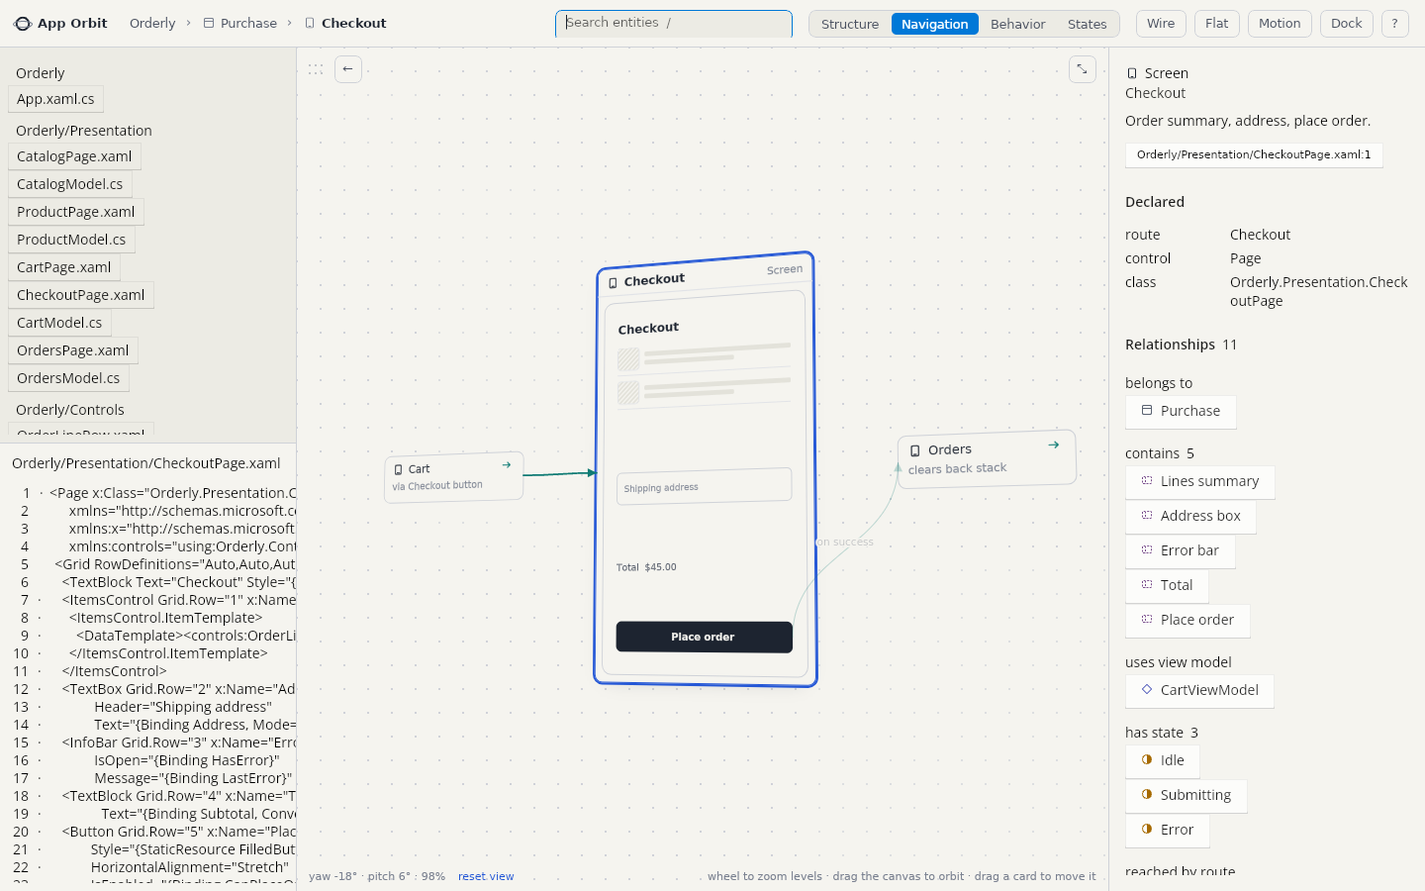
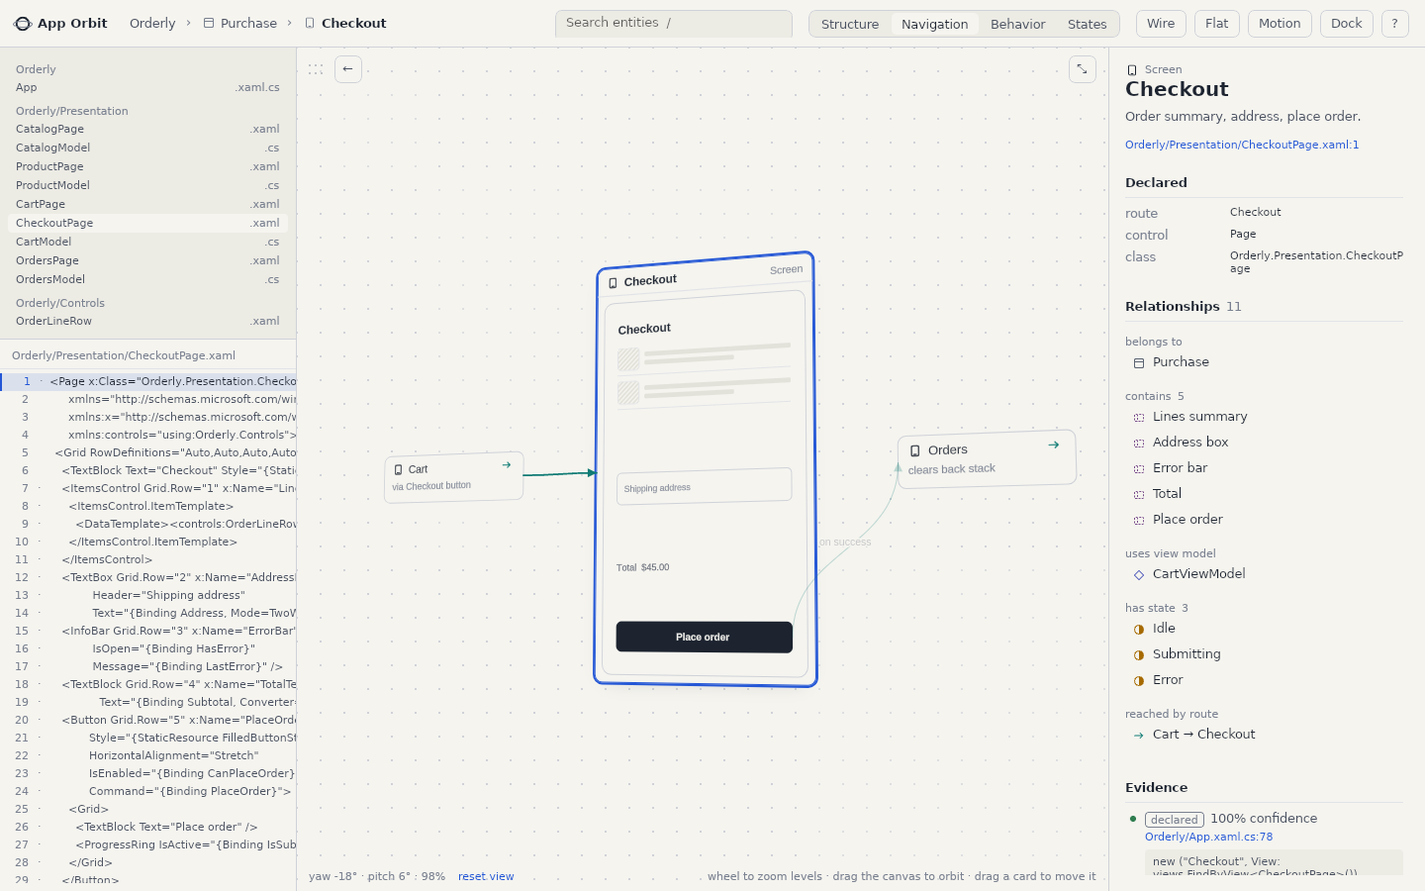
fix(app-orbit): shell styling, viewer focus host and a stable window size
Resources resolve through the application dictionary and the active theme
entry; the lens tabs and toggles are buttons whose pressed look the page sets,
with the stock templates' hover and pressed keys overridden at app level. The
canvas sits in a focusable host so keys reach the viewer. The launch size is
re-asked until the XAML root reports it, which makes headless captures
deterministic on X11. The journey adds pointer hit-test checks (56 pass).

Claude-Session: https://claude.ai/code/session_017pPP6jnh4C2bUHUgnHGYqQ

diff --git a/App/AppOrbit/ShellPage.xaml b/App/AppOrbit/ShellPage.xaml
@@ -31,7 +31,7 @@
       <StackPanel x:Name="Breadcrumb" Grid.Column="1" Orientation="Horizontal" Spacing="4" VerticalAlignment="Center" />
 
       <Grid Grid.Column="2" VerticalAlignment="Center">
-        <TextBox x:Name="SearchBox" Style="{StaticResource SearchBox}" PlaceholderText="Search entities  /" AutomationProperties.Name="Search entities" />
+        <TextBox x:Name="SearchBox" Style="{StaticResource SearchBox}" IsTabStop="True" TabIndex="5" PlaceholderText="Search entities  /" AutomationProperties.Name="Search entities" />
         <Popup x:Name="SearchPopup" IsLightDismissEnabled="False" VerticalOffset="32">
           <Border x:Name="SearchResultsBorder" Width="320" Background="{ThemeResource Paper}" BorderBrush="{ThemeResource Rule}" BorderThickness="1" CornerRadius="6" Padding="4" MaxHeight="320">
             <StackPanel x:Name="SearchResults" />
@@ -41,18 +41,18 @@
 
       <Border x:Name="LensTabs" Grid.Column="3" Background="{ThemeResource Paper2}" BorderBrush="{ThemeResource Rule}" BorderThickness="1" CornerRadius="7" Padding="2" Height="28" VerticalAlignment="Center">
         <StackPanel Orientation="Horizontal" Spacing="2">
-          <ToggleButton x:Name="LensStructure" Content="Structure" Style="{StaticResource LensTab}" Tag="structure" Click="OnLensTab" AutomationProperties.Name="Structure lens" />
-          <ToggleButton x:Name="LensNavigation" Content="Navigation" Style="{StaticResource LensTab}" Tag="navigation" Click="OnLensTab" AutomationProperties.Name="Navigation lens" />
-          <ToggleButton x:Name="LensBehavior" Content="Behavior" Style="{StaticResource LensTab}" Tag="behavior" Click="OnLensTab" AutomationProperties.Name="Behavior lens" />
-          <ToggleButton x:Name="LensStates" Content="States" Style="{StaticResource LensTab}" Tag="states" Click="OnLensTab" AutomationProperties.Name="States lens" />
+          <Button x:Name="LensStructure" Content="Structure" Style="{StaticResource LensTab}" Tag="structure" Click="OnLensTab" AutomationProperties.Name="Structure lens" />
+          <Button x:Name="LensNavigation" Content="Navigation" Style="{StaticResource LensTab}" Tag="navigation" Click="OnLensTab" AutomationProperties.Name="Navigation lens" />
+          <Button x:Name="LensBehavior" Content="Behavior" Style="{StaticResource LensTab}" Tag="behavior" Click="OnLensTab" AutomationProperties.Name="Behavior lens" />
+          <Button x:Name="LensStates" Content="States" Style="{StaticResource LensTab}" Tag="states" Click="OnLensTab" AutomationProperties.Name="States lens" />
         </StackPanel>
       </Border>
 
       <StackPanel Grid.Column="4" Orientation="Horizontal" Spacing="8" VerticalAlignment="Center">
-        <ToggleButton x:Name="FidelityButton" Content="Wire" Style="{StaticResource ShellToggle}" Click="OnToggleFidelity" AutomationProperties.Name="Wireframe or UI previews (W)" />
-        <ToggleButton x:Name="ViewButton" Content="Flat" Style="{StaticResource ShellToggle}" Click="OnToggleView" AutomationProperties.Name="Flat view (F)" />
-        <ToggleButton x:Name="MotionButton" Content="Motion" Style="{StaticResource ShellToggle}" Click="OnToggleMotion" AutomationProperties.Name="Reduce motion" />
-        <ToggleButton x:Name="ModeButton" Content="Dock" Style="{StaticResource ShellToggle}" Click="OnToggleMode" AutomationProperties.Name="Dock the viewer (D)" />
+        <Button x:Name="FidelityButton" Content="Wire" Style="{StaticResource ShellButton}" Click="OnToggleFidelity" AutomationProperties.Name="Wireframe or UI previews (W)" />
+        <Button x:Name="ViewButton" Content="Flat" Style="{StaticResource ShellButton}" Click="OnToggleView" AutomationProperties.Name="Flat view (F)" />
+        <Button x:Name="MotionButton" Content="Motion" Style="{StaticResource ShellButton}" Click="OnToggleMotion" AutomationProperties.Name="Reduce motion" />
+        <Button x:Name="ModeButton" Content="Dock" Style="{StaticResource ShellButton}" Click="OnToggleMode" AutomationProperties.Name="Dock the viewer (D)" />
         <Button x:Name="HelpButton" Content="?" Style="{StaticResource IconButton}" Click="OnToggleHelp" AutomationProperties.Name="Keyboard shortcuts" />
       </StackPanel>
     </Grid>
@@ -91,7 +91,9 @@
         <Border x:Name="DockGhost" BorderBrush="{ThemeResource Ink3}" BorderThickness="1" CornerRadius="8" Visibility="Collapsed" IsHitTestVisible="False" />
 
         <Grid x:Name="Viewer" Background="{ThemeResource Paper}" AutomationProperties.Name="Orbital viewer">
-          <scene:SceneCanvas x:Name="Stage" />
+          <ContentControl x:Name="StageHost" IsTabStop="True" UseSystemFocusVisuals="False" HorizontalContentAlignment="Stretch" VerticalContentAlignment="Stretch" AutomationProperties.Name="Orbital viewer">
+            <scene:SceneCanvas x:Name="Stage" />
+          </ContentControl>
 
           <Grid x:Name="ViewerHead" VerticalAlignment="Top" Padding="12,8" ColumnSpacing="12" Background="Transparent">
             <Grid.ColumnDefinitions>

diff --git a/App/AppOrbit/App.xaml b/App/AppOrbit/App.xaml
@@ -4,6 +4,65 @@
 
   <Application.Resources>
     <ResourceDictionary>
+      <!-- lightweight styling for the stock templates (hover, pressed, focused). Must sit at app level: a merged dictionary's theme entries are not seen by the templates. -->
+<ResourceDictionary.ThemeDictionaries>
+  <ResourceDictionary x:Key="Light">
+    <SolidColorBrush x:Key="ButtonBackgroundPointerOver" Color="#ECEBE4" />
+    <SolidColorBrush x:Key="ButtonBackgroundPressed" Color="#E3E2DA" />
+    <SolidColorBrush x:Key="ButtonForegroundPointerOver" Color="#1D2430" />
+    <SolidColorBrush x:Key="ButtonForegroundPressed" Color="#1D2430" />
+    <SolidColorBrush x:Key="ButtonBorderBrushPointerOver" Color="#7A8190" />
+    <SolidColorBrush x:Key="ButtonBorderBrushPressed" Color="#7A8190" />
+    <SolidColorBrush x:Key="ToggleButtonBackgroundPointerOver" Color="#ECEBE4" />
+    <SolidColorBrush x:Key="ToggleButtonBackgroundPressed" Color="#E3E2DA" />
+    <SolidColorBrush x:Key="ToggleButtonForegroundPointerOver" Color="#1D2430" />
+    <SolidColorBrush x:Key="ToggleButtonForegroundPressed" Color="#1D2430" />
+    <SolidColorBrush x:Key="ToggleButtonBorderBrushPointerOver" Color="#7A8190" />
+    <SolidColorBrush x:Key="ToggleButtonBorderBrushPressed" Color="#7A8190" />
+    <SolidColorBrush x:Key="ToggleButtonBackgroundChecked" Color="#ECEBE4" />
+    <SolidColorBrush x:Key="ToggleButtonBackgroundCheckedPointerOver" Color="#E3E2DA" />
+    <SolidColorBrush x:Key="ToggleButtonBackgroundCheckedPressed" Color="#E3E2DA" />
+    <SolidColorBrush x:Key="ToggleButtonForegroundChecked" Color="#1D2430" />
+    <SolidColorBrush x:Key="ToggleButtonForegroundCheckedPointerOver" Color="#1D2430" />
+    <SolidColorBrush x:Key="ToggleButtonForegroundCheckedPressed" Color="#1D2430" />
+    <SolidColorBrush x:Key="ToggleButtonBorderBrushChecked" Color="#7A8190" />
+    <SolidColorBrush x:Key="ToggleButtonBorderBrushCheckedPointerOver" Color="#7A8190" />
+    <SolidColorBrush x:Key="ToggleButtonBorderBrushCheckedPressed" Color="#7A8190" />
+    <SolidColorBrush x:Key="TextControlBackgroundFocused" Color="#F5F4EF" />
+    <SolidColorBrush x:Key="TextControlBackgroundPointerOver" Color="#ECEBE4" />
+    <SolidColorBrush x:Key="TextControlBorderBrushFocused" Color="#2457D6" />
+    <SolidColorBrush x:Key="TextControlBorderBrushPointerOver" Color="#CFD2D8" />
+    <Thickness x:Key="TextControlBorderThemeThicknessFocused">1</Thickness>
+  </ResourceDictionary>
+  <ResourceDictionary x:Key="Dark">
+    <SolidColorBrush x:Key="ButtonBackgroundPointerOver" Color="#1C2028" />
+    <SolidColorBrush x:Key="ButtonBackgroundPressed" Color="#232834" />
+    <SolidColorBrush x:Key="ButtonForegroundPointerOver" Color="#E8E9EC" />
+    <SolidColorBrush x:Key="ButtonForegroundPressed" Color="#E8E9EC" />
+    <SolidColorBrush x:Key="ButtonBorderBrushPointerOver" Color="#848A97" />
+    <SolidColorBrush x:Key="ButtonBorderBrushPressed" Color="#848A97" />
+    <SolidColorBrush x:Key="ToggleButtonBackgroundPointerOver" Color="#1C2028" />
+    <SolidColorBrush x:Key="ToggleButtonBackgroundPressed" Color="#232834" />
+    <SolidColorBrush x:Key="ToggleButtonForegroundPointerOver" Color="#E8E9EC" />
+    <SolidColorBrush x:Key="ToggleButtonForegroundPressed" Color="#E8E9EC" />
+    <SolidColorBrush x:Key="ToggleButtonBorderBrushPointerOver" Color="#848A97" />
+    <SolidColorBrush x:Key="ToggleButtonBorderBrushPressed" Color="#848A97" />
+    <SolidColorBrush x:Key="ToggleButtonBackgroundChecked" Color="#1C2028" />
+    <SolidColorBrush x:Key="ToggleButtonBackgroundCheckedPointerOver" Color="#232834" />
+    <SolidColorBrush x:Key="ToggleButtonBackgroundCheckedPressed" Color="#232834" />
+    <SolidColorBrush x:Key="ToggleButtonForegroundChecked" Color="#E8E9EC" />
+    <SolidColorBrush x:Key="ToggleButtonForegroundCheckedPointerOver" Color="#E8E9EC" />
+    <SolidColorBrush x:Key="ToggleButtonForegroundCheckedPressed" Color="#E8E9EC" />
+    <SolidColorBrush x:Key="ToggleButtonBorderBrushChecked" Color="#848A97" />
+    <SolidColorBrush x:Key="ToggleButtonBorderBrushCheckedPointerOver" Color="#848A97" />
+    <SolidColorBrush x:Key="ToggleButtonBorderBrushCheckedPressed" Color="#848A97" />
+    <SolidColorBrush x:Key="TextControlBackgroundFocused" Color="#15181E" />
+    <SolidColorBrush x:Key="TextControlBackgroundPointerOver" Color="#1C2028" />
+    <SolidColorBrush x:Key="TextControlBorderBrushFocused" Color="#7AA2FF" />
+    <SolidColorBrush x:Key="TextControlBorderBrushPointerOver" Color="#3A3F4A" />
+    <Thickness x:Key="TextControlBorderThemeThicknessFocused">1</Thickness>
+  </ResourceDictionary>
+</ResourceDictionary.ThemeDictionaries>
       <ResourceDictionary.MergedDictionaries>
         <XamlControlsResources xmlns="using:Microsoft.UI.Xaml.Controls" />
         <ResourceDictionary Source="ms-appx:///Themes/Tokens.xaml" />

diff --git a/App/AppOrbit/Themes/Controls.xaml b/App/AppOrbit/Themes/Controls.xaml
@@ -4,6 +4,7 @@
 
   <!-- Shell controls at the prototype's one control height (28), rule border, 6px radius. -->
 
+
   <Style x:Key="ShellButton" TargetType="Button">
     <Setter Property="FontFamily" Value="{StaticResource Font.Ui}" />
     <Setter Property="FontSize" Value="12.5" />
@@ -42,7 +43,7 @@
   </Style>
 
   <!-- lens tabs: a flat segmented control inside one paper-2 track -->
-  <Style x:Key="LensTab" TargetType="ToggleButton">
+  <Style x:Key="LensTab" TargetType="Button">
     <Setter Property="FontFamily" Value="{StaticResource Font.Ui}" />
     <Setter Property="FontSize" Value="12.5" />
     <Setter Property="Foreground" Value="{ThemeResource Ink2}" />

diff --git a/App/AppOrbit/Themes/Tokens.xaml b/App/AppOrbit/Themes/Tokens.xaml
@@ -101,8 +101,8 @@
   </ResourceDictionary.ThemeDictionaries>
 
   <!-- type: five sizes, one family. Mono is for refs, members and code. -->
-  <FontFamily x:Key="Font.Ui">Segoe UI, system-ui, sans-serif</FontFamily>
-  <FontFamily x:Key="Font.Mono">Cascadia Mono, Consolas, Menlo, monospace</FontFamily>
+  <FontFamily x:Key="Font.Ui">Segoe UI, Liberation Sans, Noto Sans, sans-serif</FontFamily>
+  <FontFamily x:Key="Font.Mono">Cascadia Mono, Consolas, Menlo, Liberation Mono, monospace</FontFamily>
 
   <Style x:Key="T11" TargetType="TextBlock">
     <Setter Property="FontFamily" Value="{StaticResource Font.Ui}" />

diff --git a/App/AppOrbit/ShellPage.xaml.cs b/App/AppOrbit/ShellPage.xaml.cs
@@ -2,7 +2,6 @@ using AppOrbit.Graph;
 using AppOrbit.Layout;
 using AppOrbit.Scene;
 using AppOrbit.State;
-using Microsoft.UI.Xaml.Controls.Primitives;
 using Microsoft.UI.Xaml.Input;
 using Microsoft.UI.Xaml.Media;
 using Windows.Storage;
@@ -60,12 +59,27 @@ public sealed partial class ShellPage : Page
         BuildEditorFiles();
         _store.Changed += OnStateChanged;
 
+        _ = EnsureWindowSizeAsync();
+
         // first paint
         _store.Dispatch(s => s with { SceneVersion = 1 });
         PlaceViewer();
         Stage.ResetCamera(_store.State.View);
-        Stage.Focus(FocusState.Programmatic);
+        FocusViewer();
         Journey.Start(this);
+    }
+
+    /// <summary>Re-asks for the launch size until the root reports it, a few times at most.</summary>
+    internal async Task EnsureWindowSizeAsync()
+    {
+        var want = App.DesiredSize;
+        for (var i = 0; i < 12 && App.Current != null; i++)
+        {
+            var size = XamlRoot?.Size ?? new Windows.Foundation.Size(0, 0);
+            if (Math.Abs(size.Width - want.Width) < 2 && Math.Abs(size.Height - want.Height) < 2) return;
+            try { App.Current.AppWindow.Resize(want); } catch { }
+            await Task.Delay(250);
+        }
     }
 
     private static async Task<string> ReadGraphAsync()
@@ -137,8 +151,11 @@ public sealed partial class ShellPage : Page
 
     // ---------------------------------------------------------------- scene wiring
 
+    internal void FocusViewer() => StageHost.Focus(FocusState.Programmatic);
+
     private void WireScene()
     {
+        Stage.AddHandler(PointerPressedEvent, new PointerEventHandler((_, _) => StageHost.Focus(FocusState.Pointer)), true);
         Stage.FocusRequested += id => Focus(id);
         Stage.HoverChanged += Hover;
         Stage.CursorChanged += id => Store.Dispatch(s => s.CursorId == id ? s : s with { CursorId = id });
@@ -152,15 +169,15 @@ public sealed partial class ShellPage : Page
 
     private void OnStateChanged(AppState s, AppState prev)
     {
-        FidelityButton.IsChecked = s.Fidelity == Fidelities.Ui;
         FidelityButton.Content = s.Fidelity == Fidelities.Ui ? "UI" : "Wire";
-        ViewButton.IsChecked = s.View == Views.Flat;
-        ModeButton.IsChecked = s.Mode == Modes.Docked;
-        MotionButton.IsChecked = s.ReducedMotion;
-        LensStructure.IsChecked = s.Lens == Lens.Structure;
-        LensNavigation.IsChecked = s.Lens == Lens.Navigation;
-        LensBehavior.IsChecked = s.Lens == Lens.Behavior;
-        LensStates.IsChecked = s.Lens == Lens.States;
+        Pressed(FidelityButton, s.Fidelity == Fidelities.Ui);
+        Pressed(ViewButton, s.View == Views.Flat);
+        Pressed(ModeButton, s.Mode == Modes.Docked);
+        Pressed(MotionButton, s.ReducedMotion);
+        Tab(LensStructure, s.Lens == Lens.Structure);
+        Tab(LensNavigation, s.Lens == Lens.Navigation);
+        Tab(LensBehavior, s.Lens == Lens.Behavior);
+        Tab(LensStates, s.Lens == Lens.States);
 
         if (s.SceneVersion != _lastScene || s.Mode != _lastMode || s.View != _lastView || s.Lens != _lastLens)
         {
@@ -182,6 +199,23 @@ public sealed partial class ShellPage : Page
         if (s.Editor != prev.Editor || s.FocusId != prev.FocusId || s.SceneVersion != prev.SceneVersion) RenderEditor(s);
         if (s.SearchOpen != prev.SearchOpen && !s.SearchOpen) CloseSearch();
         if (s.Lens != prev.Lens || s.Mode != prev.Mode || s.View != prev.View || s.ReducedMotion != prev.ReducedMotion || s.Fidelity != prev.Fidelity || s.WorkspaceRoot != prev.WorkspaceRoot) Prefs.Save(s);
+    }
+
+    /// <summary>A shell toggle's pressed look: paper-2, ink, an ink-3 border (the prototype's aria-pressed style).</summary>
+    private void Pressed(Button b, bool on)
+    {
+        b.Background = Res<Brush>(on ? "Paper2" : "Paper");
+        b.Foreground = Res<Brush>(on ? "Ink" : "Ink2");
+        b.BorderBrush = Res<Brush>(on ? "Ink3" : "Rule");
+        AutomationProperties.SetItemStatus(b, on ? "on" : "off");
+    }
+
+    /// <summary>A lens tab's selected look: paper on the paper-2 track, ink text.</summary>
+    private void Tab(Button b, bool on)
+    {
+        b.Background = on ? Res<Brush>("Paper") : new SolidColorBrush(Microsoft.UI.Colors.Transparent);
+        b.Foreground = Res<Brush>(on ? "Ink" : "Ink2");
+        AutomationProperties.SetItemStatus(b, on ? "selected" : "");
     }
 
     /// <summary>Docked: the slot column collapses, the inspector takes the width, the viewer's chrome changes.</summary>
@@ -279,7 +313,7 @@ public sealed partial class ShellPage : Page
 
     // ---------------------------------------------------------------- controls
 
-    private void OnLensTab(object sender, RoutedEventArgs e) { if (sender is ToggleButton t && t.Tag is string lens) SetLens(lens); }
+    private void OnLensTab(object sender, RoutedEventArgs e) { if (sender is Button t && t.Tag is string lens) SetLens(lens); }
     private void OnToggleFidelity(object sender, RoutedEventArgs e) => ToggleFidelity();
     private void OnToggleView(object sender, RoutedEventArgs e) => ToggleView();
     private void OnToggleMotion(object sender, RoutedEventArgs e) => ToggleMotion();
@@ -305,7 +339,7 @@ public sealed partial class ShellPage : Page
             case VirtualKey.Divide: case (VirtualKey)191: SearchBox.Focus(FocusState.Keyboard); SearchBox.SelectAll(); break;
             case VirtualKey.Add: case (VirtualKey)187: ZoomIn(); break;
             case VirtualKey.Subtract: case (VirtualKey)189: case VirtualKey.Back: ZoomOut(); break;
-            case VirtualKey.Escape: if (typing) { CloseSearch(); Stage.Focus(FocusState.Programmatic); } else Focus(_store.State.FocusId); break;
+            case VirtualKey.Escape: if (typing) { CloseSearch(); FocusViewer(); } else Focus(_store.State.FocusId); break;
             case VirtualKey.Number0: case VirtualKey.NumberPad0: Stage.ResetCamera(); break;
             case VirtualKey.Number1: SetLens(Lens.Structure); break;
             case VirtualKey.Number2: SetLens(Lens.Navigation); break;

diff --git a/App/AppOrbit/Shell/Journey.cs b/App/AppOrbit/Shell/Journey.cs
@@ -68,8 +68,11 @@ internal static class Journey
 
     private static async Task RunAsync(ShellPage page)
     {
-        await Task.Delay(1200);
+        await Task.Delay(600);
+        await page.EnsureWindowSizeAsync();
+        await Task.Delay(600);
         var store = page.StoreForJourney;
+        Log($"window {page.XamlRoot?.Size.Width:0}x{page.XamlRoot?.Size.Height:0}");
         var g = store.Graph;
         AppState S() => store.State;
         LayoutResult L() => LayoutEngine.Compute(g, S());
@@ -85,6 +88,8 @@ internal static class Journey
         Check(Cards("feature") == 3, "application level shows 3 features");
         Check(L().Cards.Where(c => c.Kind == "feature").Sum(c => c.Screens!.Count) == 5, "application level shows 5 screens");
         await Shot("01-application");
+        Check(page.HitAtCenterOf("feature.purchase", "feature.purchase:t") == "feature.purchase", "a press on the Purchase plate's head hits the feature");
+        Check(page.HitAtCenterOf("feature.purchase", "feature.purchase/screen.checkout:c") == "screen.checkout", "a press on the Checkout thumbnail hits the screen");
         page.Focus("feature.purchase"); await Settle();
         Check(S().FocusId == "feature.purchase", "click a feature plate → feature level");
         Check(Crumb().Contains("Purchase"), "breadcrumb shows Purchase");
@@ -124,6 +129,8 @@ internal static class Journey
         Check(bindLinks == 8, $"seven bindings and one command connector ({bindLinks})");
         await Shot("04-checkout-behavior");
 
+        Check(page.HitAtCenterOf("screen.checkout", "screen.checkout/inst.checkout.place-order:c") == "inst.checkout.place-order", "a press on Place order in the preview hits the instance");
+        Check(page.HitAtCenterOf("vm.cart", "vm.cart/prop.cart.can-place-order:c") == "prop.cart.can-place-order", "a press on a member row hits the member");
         page.Focus("inst.checkout.place-order"); await Settle();
         Check(S().FocusId == "inst.checkout.place-order", "click Place order in the preview → component level");
         var vm = L().Cards.FirstOrDefault(c => c.Kind == "vm");

diff --git a/App/AppOrbit/App.xaml.cs b/App/AppOrbit/App.xaml.cs
@@ -12,9 +12,15 @@ public partial class App : Application
 
     protected Window? MainWindow { get; private set; }
 
+    /// <summary>The window size asked for at launch; the shell asks again until the XAML root reports it (X11 applies a resize intermittently).</summary>
+    public static Windows.Graphics.SizeInt32 DesiredSize { get; private set; }
+
+    public static Window? Current { get; private set; }
+
     protected override void OnLaunched(LaunchActivatedEventArgs args)
     {
         MainWindow = new Window();
+        Current = MainWindow;
 #if DEBUG
         // UseStudio() blocks the window when no DevServer is reachable, so headless runs opt out.
         if (Environment.GetEnvironmentVariable("APP_NO_HOTDESIGN") != "1")
@@ -41,7 +47,8 @@ public partial class App : Application
         var size = Environment.GetEnvironmentVariable("APP_ORBIT_SIZE")?.Split('x');
         var w = size?.Length == 2 && int.TryParse(size[0], out var pw) ? pw : 1440;
         var h = size?.Length == 2 && int.TryParse(size[1], out var ph) ? ph : 900;
-        try { MainWindow.AppWindow.Resize(new Windows.Graphics.SizeInt32 { Width = w, Height = h }); } catch { }
+        DesiredSize = new Windows.Graphics.SizeInt32 { Width = w, Height = h };
+        try { MainWindow.AppWindow.Resize(DesiredSize); } catch { }
 
         // The Win32 GL render thread access-violates at degenerate sizes; the shell needs the width anyway.
         if (MainWindow.AppWindow.Presenter is OverlappedPresenter presenter)

diff --git a/App/AppOrbit/Scene/SceneCanvas.cs b/App/AppOrbit/Scene/SceneCanvas.cs
@@ -240,6 +240,18 @@ public sealed partial class SceneCanvas : SKCanvasElement
         CursorChanged?.Invoke(_tabOrder[i]);
     }
 
+    /// <summary>For the journey runner: the id a press at a projected anchor would hit.</summary>
+    public string? HitAtAnchor(string anchorKey)
+    {
+        foreach (var gm in _geoms)
+        {
+            if (!gm.Anchors.TryGetValue(anchorKey, out var local)) continue;
+            var (x, y, _) = gm.M.Project(local.X, local.Y);
+            return SceneGeometry.HitTest(_geoms, new SKPoint((float)x, (float)y))?.Hit.Id;
+        }
+        return null;
+    }
+
     // ---------------------------------------------------------------- pointer
 
     private (CardGeom Geom, HitRegion Hit)? HitAt(Point p) => SceneGeometry.HitTest(_geoms, new SKPoint((float)p.X, (float)p.Y));
@@ -252,7 +264,6 @@ public sealed partial class SceneCanvas : SKCanvasElement
         var key = hit?.Geom.Card.Key;
         var (bx, by) = key != null ? OffsetOf(key) : (0, 0);
         _drag = new Drag { Start = pt.Position, Yaw = _cam.TargetYaw, Pitch = _cam.TargetPitch, PointerId = e.Pointer.PointerId, Key = key, BaseX = bx, BaseY = by };
-        Focus(FocusState.Programmatic);
         e.Handled = true;
     }
 

diff --git a/App/AppOrbit/Scene/Fonts.cs b/App/AppOrbit/Scene/Fonts.cs
@@ -5,8 +5,8 @@ namespace AppOrbit.Scene;
 /// <summary>The scene's two families, resolved once: the UI stack (Segoe UI on Windows) and the mono stack. Fonts are cached per (family, size, weight, italic).</summary>
 public static class Fonts
 {
-    private static readonly string[] UiFamilies = { "Segoe UI", "Noto Sans", "DejaVu Sans", "Liberation Sans", "Helvetica", "Arial" };
-    private static readonly string[] MonoFamilies = { "Cascadia Mono", "Consolas", "Menlo", "DejaVu Sans Mono", "Liberation Mono", "Noto Sans Mono", "Courier New" };
+    private static readonly string[] UiFamilies = { "Segoe UI", "Liberation Sans", "Noto Sans", "Cantarell", "Ubuntu", "Arial", "Helvetica", "DejaVu Sans" };
+    private static readonly string[] MonoFamilies = { "Cascadia Mono", "Consolas", "Menlo", "Liberation Mono", "Noto Sans Mono", "DejaVu Sans Mono", "Courier New" };
 
     private static readonly Dictionary<(bool Mono, int Weight, bool Italic), SKTypeface> Typefaces = new();
     private static readonly Dictionary<(bool Mono, float Size, int Weight, bool Italic), SKFont> Cache = new();

diff --git a/App/AppOrbit/Shell/ShellPage.Search.cs b/App/AppOrbit/Shell/ShellPage.Search.cs
@@ -23,7 +23,7 @@ public sealed partial class ShellPage
                 case VirtualKey.Down: _selected = Math.Min(_hits.Count - 1, _selected + 1); RenderSearch(); e.Handled = true; break;
                 case VirtualKey.Up: _selected = Math.Max(0, _selected - 1); RenderSearch(); e.Handled = true; break;
                 case VirtualKey.Enter: if (_selected < _hits.Count) { PickSearch(_hits[_selected].Id); e.Handled = true; } break;
-                case VirtualKey.Escape: SearchBox.Text = ""; CloseSearch(); Stage.Focus(FocusState.Programmatic); e.Handled = true; break;
+                case VirtualKey.Escape: SearchBox.Text = ""; CloseSearch(); FocusViewer(); e.Handled = true; break;
             }
         };
     }
@@ -70,7 +70,7 @@ public sealed partial class ShellPage
     {
         Focus(id);
         CloseSearch();
-        Stage.Focus(FocusState.Programmatic);
+        FocusViewer();
     }
 
     private void CloseSearch() => SearchPopup.IsOpen = false;

diff --git a/App/AppOrbit/Shell/ShellPage.Journey.cs b/App/AppOrbit/Shell/ShellPage.Journey.cs
@@ -30,6 +30,9 @@ public sealed partial class ShellPage
         if (covering.Count > 0) Focus(covering[0].Id, line);
     }
 
+    /// <summary>The entity under the projected centre of a card's sub-element or face, as a pointer would find it.</summary>
+    internal string? HitAtCenterOf(string cardKey, string? anchorKey = null) => Stage.HitAtAnchor(anchorKey ?? $"{cardKey}:c");
+
     internal Windows.Foundation.Size ViewerSize => new(Viewer.ActualWidth, Viewer.ActualHeight);
     internal double InspectorWidth => InspectorScroll.ActualWidth;
 

diff --git a/App/AppOrbit/Shell/ShellPage.Help.cs b/App/AppOrbit/Shell/ShellPage.Help.cs
@@ -50,7 +50,7 @@ public sealed partial class ShellPage
             var text = box.Text.Trim();
             Store.Dispatch(s => s.WorkspaceRoot == text ? s : s with { WorkspaceRoot = text, SceneVersion = s.SceneVersion + 1 });
             _help = null;
-            Stage.Focus(FocusState.Programmatic);
+            FocusViewer();
         }
     }
 }
